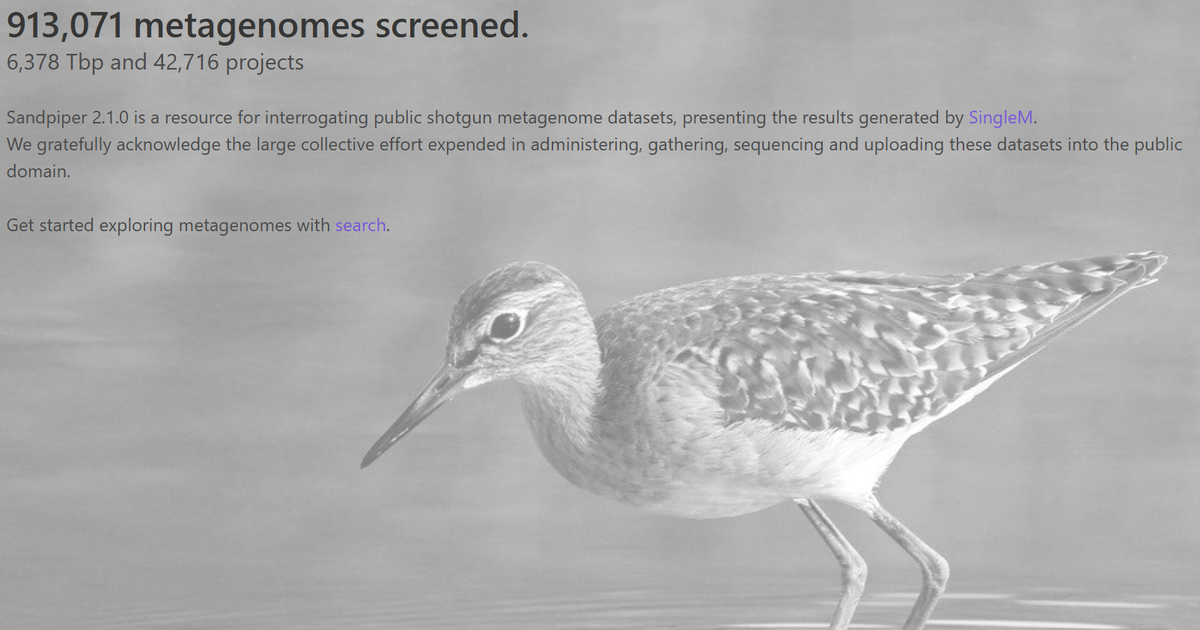
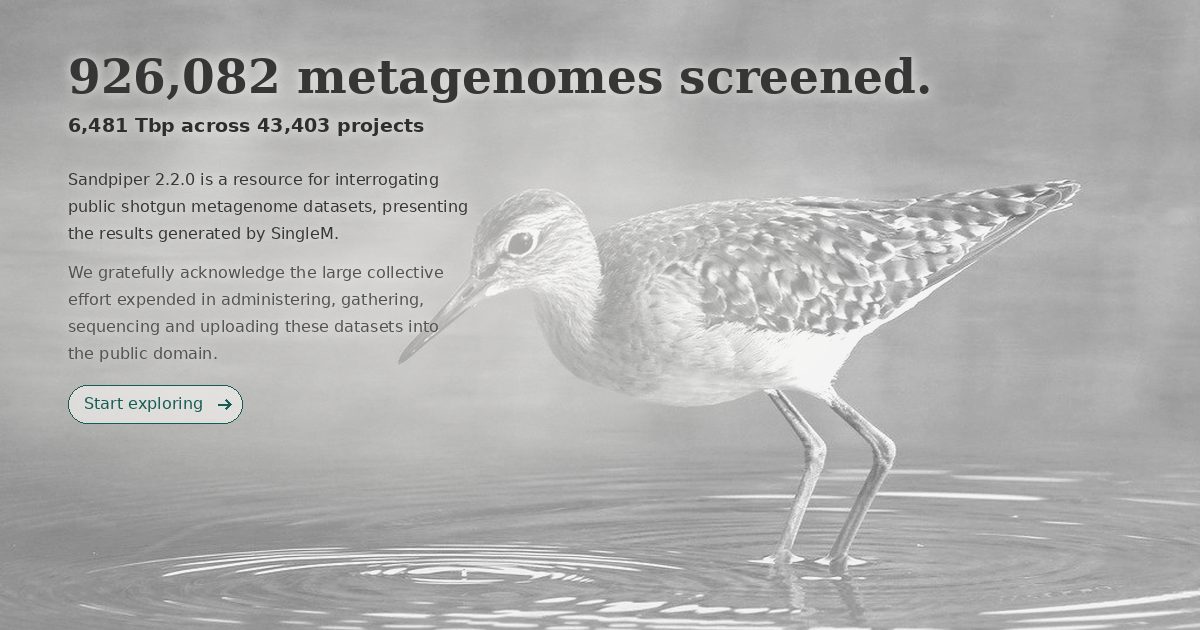
feat: add Open Graph metadata and preview generation scripts

diff --git a/vue/src/assets/scss/app.scss b/vue/src/assets/scss/app.scss
@@ -57,6 +57,53 @@ $colors: map-merge($colors, $addColors);
   --font-sans: #{$family-sans-serif};
   --font-display: #{$family-display};
 
+  // Plain colours and the greys Bulma uses, named once so a page-wide recolour is a change here.
+  --color-white: #fff;
+  --color-black: #000;
+  --color-focus: #3273dc;
+  --color-text: #363636;
+  --color-text-light: #7a7a7a;
+  --color-border: #dbdbdb;
+  --color-grey-dark: #555;
+  --color-grey-mid: #666;
+  --color-ink-strong: hsl(0, 0%, 25%);
+  --color-accent-deep: hsl(174, 62%, 22%);
+
+  // White and black at a given opacity (the number is the percentage), for text and edges over dark or photo backgrounds.
+  --white-12: rgba(255, 255, 255, 0.12);
+  --white-15: rgba(255, 255, 255, 0.15);
+  --white-28: rgba(255, 255, 255, 0.28);
+  --white-35: rgba(255, 255, 255, 0.35);
+  --white-40: rgba(255, 255, 255, 0.4);
+  --white-45: rgba(255, 255, 255, 0.45);
+  --white-50: rgba(255, 255, 255, 0.5);
+  --white-55: rgba(255, 255, 255, 0.55);
+  --white-60: rgba(255, 255, 255, 0.6);
+  --white-65: rgba(255, 255, 255, 0.65);
+  --white-70: rgba(255, 255, 255, 0.7);
+  --white-80: rgba(255, 255, 255, 0.8);
+  --white-82: rgba(255, 255, 255, 0.82);
+  --white-85: rgba(255, 255, 255, 0.85);
+  --white-96: rgba(255, 255, 255, 0.96);
+  --white-97: rgba(255, 255, 255, 0.97);
+  --white-100: rgba(255, 255, 255, 1);
+  --black-7: rgba(0, 0, 0, 0.07);
+  --black-8: rgba(0, 0, 0, 0.08);
+  --black-10: rgba(0, 0, 0, 0.1);
+  --black-12: rgba(0, 0, 0, 0.12);
+  --black-15: rgba(0, 0, 0, 0.15);
+  --black-16: rgba(0, 0, 0, 0.16);
+  --black-18: rgba(0, 0, 0, 0.18);
+  --black-20: rgba(0, 0, 0, 0.2);
+  --black-35: rgba(0, 0, 0, 0.35);
+  --black-40: rgba(0, 0, 0, 0.4);
+  --black-50: rgba(0, 0, 0, 0.5);
+
+  // Page and code fonts for the places that do not take Bulma's.
+  --font-serif: "Iowan Old Style", "Palatino Linotype", Palatino, Georgia, serif;
+  --font-system: system-ui, -apple-system, "Segoe UI", "Ubuntu", "Cantarell", sans-serif;
+  --font-mono: "SF Mono", "Cascadia Code", Consolas, monospace;
+
   // Colour tokens for the teal brand and its neutrals.
   --color-accent: hsl(174, 62%, 28%);
   --color-accent-strong: hsl(174, 62%, 24%);
@@ -73,18 +120,29 @@ $colors: map-merge($colors, $addColors);
   --color-sample-ecological: #84a86f;
   --color-sample-unclassified: #b0b0b0;
 
+  // GTDB taxa by type of sample: host-associated, found in both, ecological.
+  --color-taxa-host: hsl(270, 40%, 52%);
+  --color-taxa-ecological: hsl(140, 38%, 46%);
+  --color-taxa-both: hsl(28, 85%, 55%);
+
   // Statistics version comparison: one colour per version, newest first.
   --color-version-1: hsl(174, 62%, 28%);
   --color-version-2: hsl(28, 80%, 48%);
   --color-version-3: hsl(215, 55%, 46%);
   --color-version-4: hsl(340, 50%, 48%);
 
-  // Statistics group figures: pastel colours for the named groups of runs.
-  --color-pastel-green: hsl(140, 42%, 60%);
-  --color-pastel-blue: hsl(210, 65%, 68%);
-  --color-pastel-red: hsl(0, 70%, 72%);
-  --color-pastel-orange: hsl(30, 90%, 68%);
-  --color-pastel-purple: hsl(270, 50%, 74%);
+  // Statistics group figures: one colour per named group of runs.
+  // Sample groups, one colour per name on every chart: plant green, soil and bovine brown, marine blue, and so on.
+  --color-group-plant: hsl(130, 42%, 58%);
+  --color-group-bovine: hsl(28, 38%, 52%);
+  --color-group-pig: hsl(335, 70%, 76%);
+  --color-group-human: hsl(30, 90%, 64%);
+  --color-group-mouse: hsl(0, 0%, 62%);
+  --color-group-soil: hsl(25, 35%, 42%);
+  --color-group-sediment: hsl(40, 50%, 68%);
+  --color-group-marine: #1e90ff;
+  --color-group-freshwater: #A8D8B9;
+  --color-group-aquatic: #00334d;
 
   // Statistics phylum composition: the phyla the figures name, then spares for the rest.
   --color-phylum-bacteroidota: hsl(220, 55%, 40%);
@@ -173,4 +231,24 @@ $smf_low: #ff0000;
   .unique-star:hover {
     transform: none;
   }
+}
+
+// The small coloured square beside a chart key entry, one size on every figure. Each chart adds only what is its own
+// (a round or outlined swatch, a line), and the sample-type colours below are shared by every chart that uses them.
+.type-swatch, .swatch, .density-swatch, .phylum-swatch, .trend-swatch, .version-swatch, .year-swatch {
+  display: inline-block;
+  width: 0.8rem;
+  height: 0.8rem;
+  margin-right: var(--space-2);
+  border-radius: var(--radius-bar);
+}
+.type-host_associated { background: var(--color-sample-host); }
+.type-ecological { background: var(--color-sample-ecological); }
+.type-unclassified { background: var(--color-sample-unclassified); }
+
+// The red "!" on a search input sits over its right edge instead of reserving
+// room: Bulma's has-icons-right pads the input by 2.5em, which shrank the text
+// area (and nudged the Any button) whenever a field turned red.
+.search-autocomplete-wrap .control.has-icons-right > .input {
+  padding-right: calc(0.75em - 1px);
 }

diff --git a/vue/index.html b/vue/index.html
@@ -5,15 +5,8 @@
     <meta http-equiv="X-UA-Compatible" content="IE=edge" />
     <meta name="viewport" content="width=device-width,initial-scale=1.0" />
     <link rel="icon" href="/favicon.ico" />
-    <meta property="og:title" content="Sandpiper" />
-    <meta property="og:description" content="Browse and download public metagenomic datasets" />
-    <meta property="og:type" content="website" />
-    <meta property="og:url" content="https://sandpiper.qut.edu.au" />
-    <meta property="og:image" content="https://sandpiper.qut.edu.au/og-preview.png" /> <!-- TODO: add og-preview.png to static assets before release -->
-    <meta property="og:image:width" content="1200" />
-    <meta property="og:image:height" content="630" />
     <script src="https://www.google.com/recaptcha/api.js" async defer></script>
-    <title>sandpiper</title>
+    <title>Sandpiper</title>
 
     <!-- Open Graph / Twitter link-preview metadata. These MUST stay static in
          this file (not set from within the Vue app) since social crawlers
@@ -25,6 +18,8 @@
     <meta property="og:description" content="Browse SingleM metagenome profiles from public sequencing data." />
     <meta property="og:url" content="https://sandpiper.qut.edu.au/" />
     <meta property="og:image" content="https://sandpiper.qut.edu.au/og-preview.png" />
+    <meta property="og:image:width" content="1200" />
+    <meta property="og:image:height" content="630" />
     <meta name="twitter:card" content="summary_large_image" />
     <meta name="twitter:title" content="Sandpiper" />
     <meta name="twitter:description" content="Browse SingleM metagenome profiles from public sequencing data." />

diff --git a/vue/scripts/og_preview_compose.py b/vue/scripts/og_preview_compose.py
@@ -1,0 +1,156 @@
+#!/usr/bin/env python3
+"""Draws the link-preview image (1200 x 630) from the home page's own photo and text, with no browser.
+
+    python scripts/og_preview_compose.py --html path/to/saved-home-page.html
+
+The headline, figures and version are read from a "Save page as" copy of the home page (so they are the live
+numbers); or give them with --runs --tbp --projects --version. It lays the photo, glow and text out the way
+src/views/Home.vue styles them, and overwrites public/og-preview.png. It is an approximation drawn with DejaVu Serif,
+not a screenshot: for the exact look, screenshot the page and use `npm run og-preview -- screenshot.png`.
+"""
+import argparse
+import re
+from pathlib import Path
+
+from PIL import Image, ImageDraw, ImageEnhance, ImageFilter, ImageFont
+
+ROOT = Path(__file__).resolve().parents[1]
+PHOTO = ROOT / 'src/assets/sandpiper.jpg'
+OUT = ROOT / 'public/og-preview.png'
+FONT_DIR = Path('/usr/share/fonts/truetype/dejavu')
+W, H = 1200, 630
+CREAM = (250, 249, 246)
+INK = (54, 54, 54)
+INK_STRONG = (46, 46, 46)
+INK_MUTED = (82, 82, 82)
+ACCENT = (27, 116, 104)
+ACCENT_DEEP = (21, 92, 83)
+LEFT = 68          # .home-hero-inner: 3% margin plus 2rem padding
+TOP = 48           # 3rem padding
+TEXT_WIDTH = 880
+
+
+def font(name: str, size: int) -> ImageFont.FreeTypeFont:
+    return ImageFont.truetype(str(FONT_DIR / name), size)
+
+
+def read_page(html: str) -> dict:
+    """The figures the home page shows, from a saved copy of it."""
+    def text(cls):
+        match = re.search(rf'class="{cls}"[^>]*>([^<]*)<', html)
+        return match.group(1).strip() if match else None
+    headline = re.match(r'([\d,]+)', text('home-headline') or '')
+    sub = re.match(r'([\d,]+) Tbp across ([\d,]+) projects', text('home-subheadline') or '')
+    version = re.search(r'Sandpiper ([\d.]+) is a resource', html)
+    if not (headline and sub and version):
+        raise SystemExit('Could not find the headline, figures and version in that page.')
+    return {'runs': headline.group(1), 'tbp': sub.group(1), 'projects': sub.group(2), 'version': version.group(1)}
+
+
+def background() -> Image.Image:
+    """The hero photo, covering the frame, with the page's contrast and saturation boost."""
+    photo = Image.open(PHOTO).convert('RGB')
+    scale = max(W / photo.width, H / photo.height)
+    photo = photo.resize((round(photo.width * scale), round(photo.height * scale)), Image.LANCZOS)
+    left, top = (photo.width - W) // 2, (photo.height - H) // 2
+    photo = photo.crop((left, top, left + W, top + H))
+    photo = ImageEnhance.Contrast(photo).enhance(1.3)
+    photo = ImageEnhance.Color(photo).enhance(1.4)
+    return ImageEnhance.Brightness(photo).enhance(0.96)
+
+
+def glow(image: Image.Image) -> Image.Image:
+    """The soft cream radial glow behind the text (.home-hero-inner::before)."""
+    mask = Image.new('L', (W, H), 0)
+    cx, cy, rx, ry = 0.32 * 1000 + 40, 0.45 * 560 + 20, 700, 330
+    pixels = mask.load()
+    for y in range(H):
+        for x in range(W):
+            d = (((x - cx) / rx) ** 2 + ((y - cy) / ry) ** 2) ** 0.5
+            alpha = 0.55 - 0.27 * (d / 0.55) if d < 0.55 else 0.28 * (1 - (d - 0.55) / 0.25) if d < 0.80 else 0
+            pixels[x, y] = int(255 * max(alpha, 0))
+    return Image.composite(Image.new('RGB', (W, H), CREAM), image, mask)
+
+
+def draw_text(image: Image.Image, xy, text, fnt, fill, glow_strength=0.9) -> int:
+    """Text with a cream halo (the page's text-shadow); returns its height."""
+    halo = Image.new('L', (W, H), 0)
+    ImageDraw.Draw(halo).text(xy, text, font=fnt, fill=255)
+    halo = halo.filter(ImageFilter.GaussianBlur(6)).point(lambda v: int(v * glow_strength))
+    image.paste(Image.new('RGB', (W, H), CREAM), (0, 0), halo)
+    ImageDraw.Draw(image).text(xy, text, font=fnt, fill=fill)
+    box = ImageDraw.Draw(image).textbbox(xy, text, font=fnt)
+    return box[3] - box[1]
+
+
+def fit(text: str, name: str, size: int, limit: int) -> ImageFont.FreeTypeFont:
+    while size > 20 and ImageDraw.Draw(Image.new('L', (1, 1))).textlength(text, font=font(name, size)) > limit:
+        size -= 1
+    return font(name, size)
+
+
+def wrap(text: str, fnt, limit: int) -> list[str]:
+    measure = ImageDraw.Draw(Image.new('L', (1, 1)))
+    lines, line = [], ''
+    for word in text.split():
+        trial = f'{line} {word}'.strip()
+        if measure.textlength(trial, font=fnt) > limit and line:
+            lines.append(line)
+            line = word
+        else:
+            line = trial
+    return lines + [line]
+
+
+def compose(figures: dict) -> Image.Image:
+    image = glow(background())
+    y = TOP
+    head = f"{figures['runs']} metagenomes screened."
+    head_font = fit(head, 'DejaVuSerif-Bold.ttf', 56, TEXT_WIDTH)
+    draw_text(image, (LEFT, y), head, head_font, INK)
+    y += int(head_font.size * 1.25) + 8
+    sub = f"{figures['tbp']} Tbp across {figures['projects']} projects"
+    draw_text(image, (LEFT, y), sub, font('DejaVuSans-Bold.ttf', 19), INK_STRONG)
+    y += 56
+    body = font('DejaVuSans.ttf', 16)
+    lede = f"Sandpiper {figures['version']} is a resource for interrogating public shotgun metagenome datasets, presenting the results generated by SingleM."
+    for line in wrap(lede, body, 400):
+        draw_text(image, (LEFT, y), line, body, INK)
+        y += 27
+    y += 12
+    thanks = 'We gratefully acknowledge the large collective effort expended in administering, gathering, sequencing and uploading these datasets into the public domain.'
+    for line in wrap(thanks, body, 400):
+        draw_text(image, (LEFT, y), line, body, INK_MUTED)
+        y += 27
+    y += 14
+    label = font('DejaVuSans.ttf', 16)
+    width = int(ImageDraw.Draw(image).textlength('Start exploring', font=label)) + 56
+    pill = Image.new('RGBA', (W, H), (0, 0, 0, 0))
+    pdraw = ImageDraw.Draw(pill)
+    pdraw.rounded_rectangle((LEFT, y, LEFT + width, y + 38), radius=19, fill=CREAM + (153,), outline=ACCENT_DEEP + (255,), width=1)
+    image = Image.alpha_composite(image.convert('RGBA'), pill).convert('RGB')
+    draw = ImageDraw.Draw(image)
+    draw.text((LEFT + 16, y + 9), 'Start exploring', font=label, fill=ACCENT_DEEP)
+    ax = LEFT + width - 24
+    draw.line((ax, y + 19, ax + 12, y + 19), fill=ACCENT_DEEP, width=2)
+    draw.line((ax + 7, y + 14, ax + 12, y + 19, ax + 7, y + 24), fill=ACCENT_DEEP, width=2)
+    return image
+
+
+def main() -> None:
+    parser = argparse.ArgumentParser(description=__doc__, formatter_class=argparse.RawDescriptionHelpFormatter)
+    parser.add_argument('--html', type=Path, help='a saved copy of the home page')
+    parser.add_argument('--runs'); parser.add_argument('--tbp'); parser.add_argument('--projects'); parser.add_argument('--version')
+    parser.add_argument('--out', type=Path, default=OUT)
+    args = parser.parse_args()
+    figures = read_page(args.html.read_text(encoding='utf-8')) if args.html else {}
+    figures.update({k: v for k, v in vars(args).items() if k in ('runs', 'tbp', 'projects', 'version') and v})
+    missing = [k for k in ('runs', 'tbp', 'projects', 'version') if k not in figures]
+    if missing:
+        raise SystemExit(f'Give --html, or --{" --".join(missing)}')
+    compose(figures).save(args.out)
+    print(f'Wrote {args.out}: {figures["runs"]} runs, {figures["tbp"]} Tbp, {figures["projects"]} projects, Sandpiper {figures["version"]}')
+
+
+if __name__ == '__main__':
+    main()
